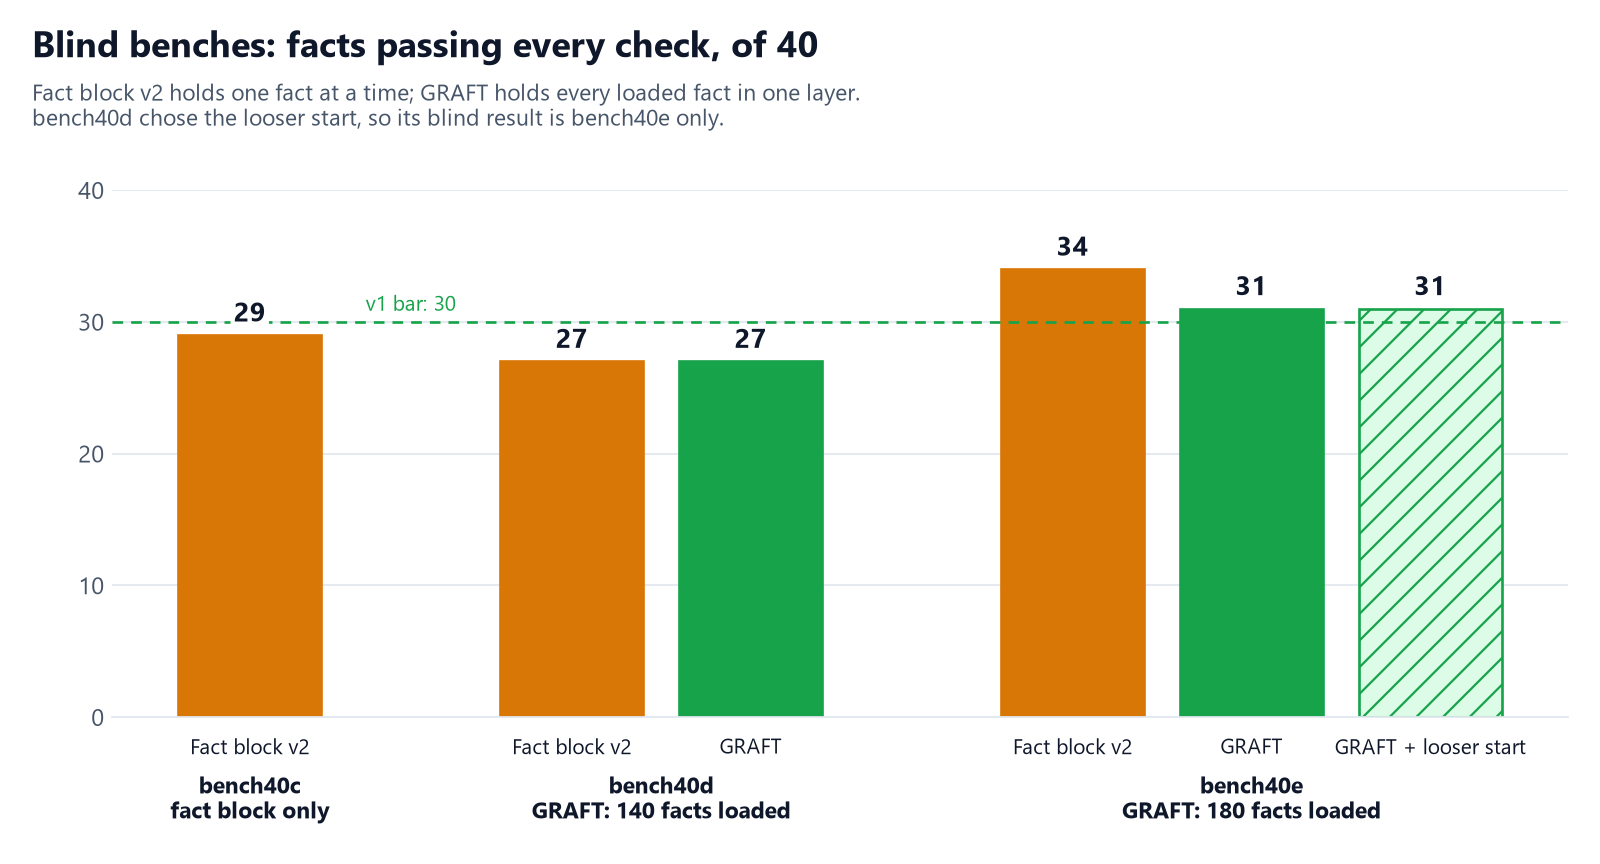
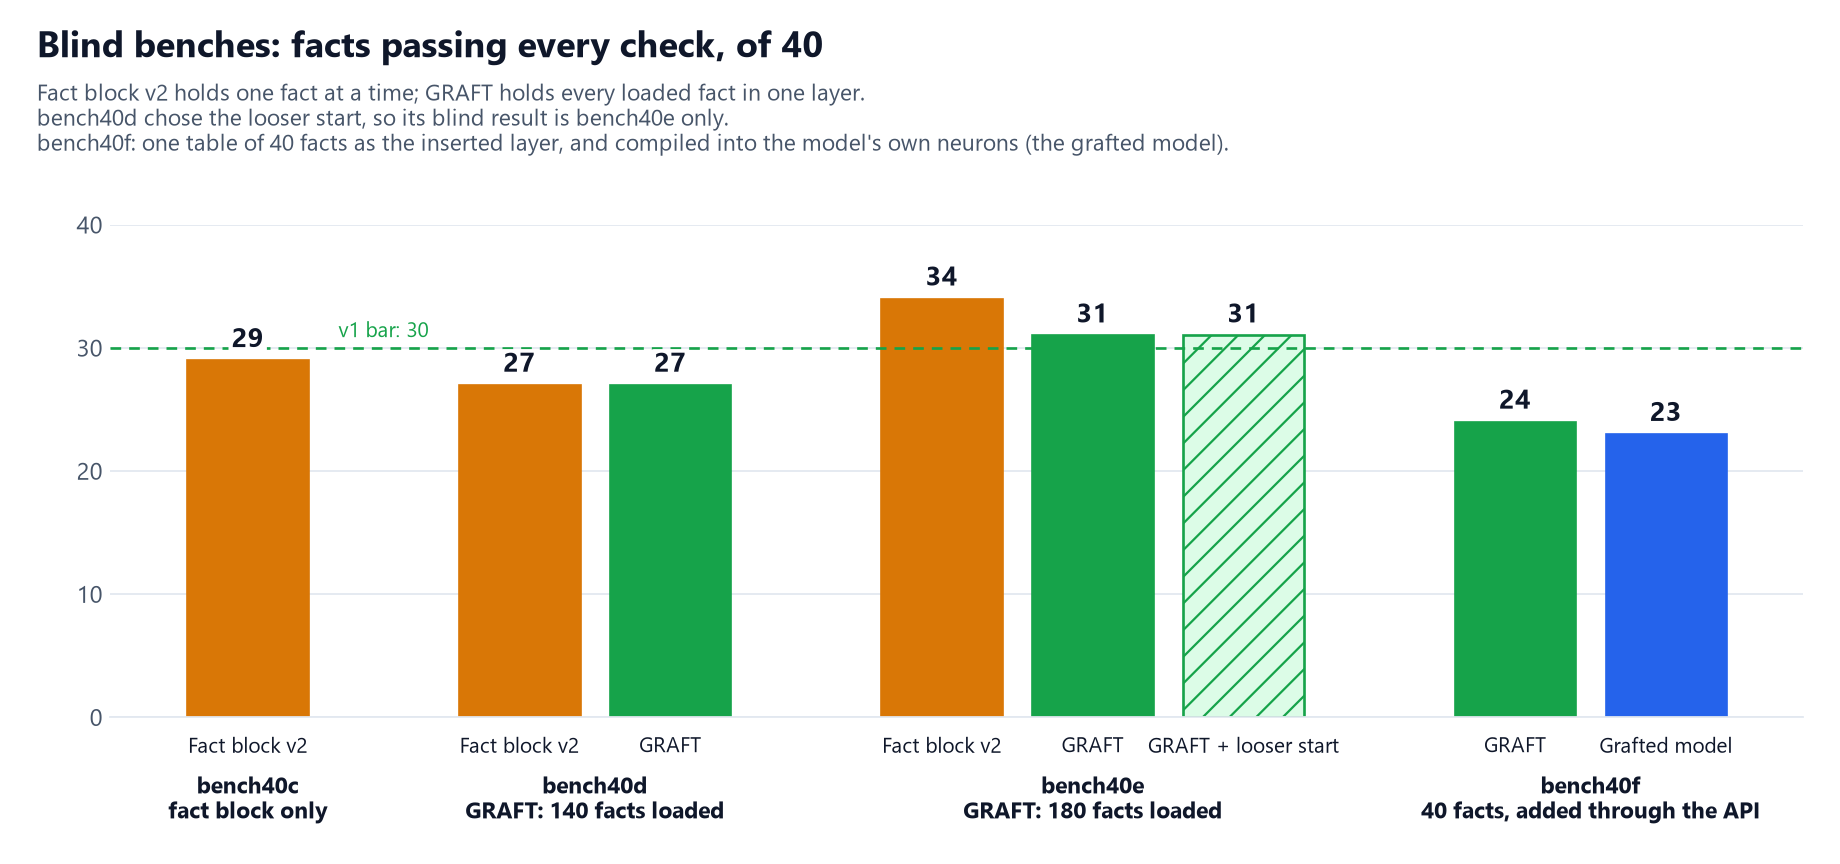
Show bench40f in the chart of blind benches
The chart under the benchmarks summary stopped at bench40e. It now has
bench40f's two bars: the inserted layer with the facts added through
the API (24 of 40) and the grafted model on the same table (23).

The chart script can read a run kept outside its bench's folder, which
the grafted model's rows are. Only this chart was redrawn.

diff --git a/scripts/make_figures.py b/scripts/make_figures.py
@@ -43,7 +43,9 @@ plt.rcParams.update({"font.family": FONT, "font.size": 11, "axes.edgecolor": GRI
 
 
 def rows(bench: str, arm: str) -> list[dict]:
-    with open(os.path.join(RESULTS, bench, f"{arm}.jsonl"), encoding="utf-8") as fh:
+    """A method's rows on a bench. An arm with a slash is a path under the results folder, for runs kept outside their bench's folder."""
+    path = os.path.join(RESULTS, f"{arm}.jsonl") if "/" in arm else os.path.join(RESULTS, bench, f"{arm}.jsonl")
+    with open(path, encoding="utf-8") as fh:
         return [json.loads(line) for line in fh if line.strip()]
 
 
@@ -136,11 +138,13 @@ def blind():
         ("bench40d", "GRAFT: 140 facts loaded", [("Fact block v2", "fact_block_v2_teach", AMBER, ""), ("GRAFT", "fact_table_teach", GREEN, "")]),
         ("bench40e", "GRAFT: 180 facts loaded", [("Fact block v2", "fact_block_v2_teach", AMBER, ""), ("GRAFT", "fact_table_teach", GREEN, ""),
                                           ("GRAFT + looser start", "fact_table_rev_teach", GREEN_L, "//")]),
+        ("bench40f", "40 facts, added through the API", [("GRAFT", "graft_api", GREEN, ""), ("Grafted model", "slots/17_step7/confirm/rows", BLUE, "")]),
     ]
-    fig, ax = plt.subplots(figsize=(10, 5.4))
-    fig.subplots_adjust(left=0.07, right=0.98, top=0.78, bottom=0.17)
+    fig, ax = plt.subplots(figsize=(11.5, 5.4))
+    fig.subplots_adjust(left=0.06, right=0.98, top=0.74, bottom=0.17)
     title(fig, "Blind benches: facts passing every check, of 40", "Fact block v2 holds one fact at a time; GRAFT holds every loaded fact "
-          "in one layer.\nbench40d chose the looser start, so its blind result is bench40e only.")
+          "in one layer.\nbench40d chose the looser start, so its blind result is bench40e only.\n"
+          "bench40f: one table of 40 facts as the inserted layer, and compiled into the model's own neurons (the grafted model).")
     x, ticks, labels = 0.0, [], []
     for bench, loaded, bars in groups:
         start = x
